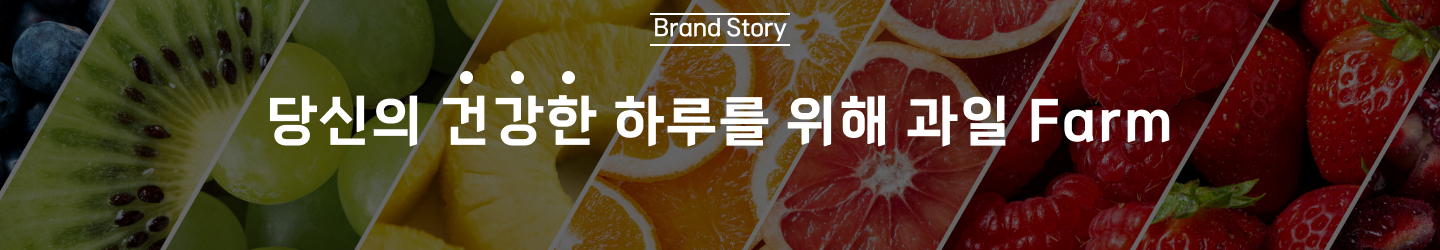
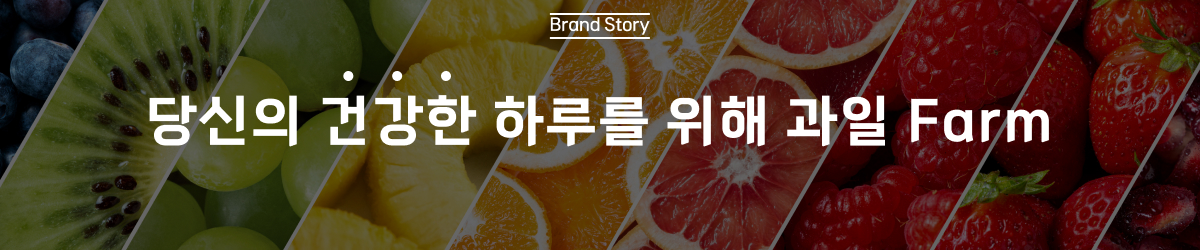
브랜드스토리 배너 이미지 사이즈 조정 / 이너 사이즈 조정 (1200px)

diff --git a/index.html b/index.html
@@ -75,50 +75,49 @@
         </a>
       </div> -->
       <!-- 상단 -->
-      <header >
-       <div class="inner">
-        <div class="header-top">
-          <form action="#" class="header-search">
-            <input
-              type="text"
-              class="search-text"
-              maxlength="100"
-              placeholder="과일은 과일팜."
-            />
-            <input type="button" class="search-bt" />
-          </form>
-          <div class="header-logo">
-            <a href="index.html"><img src="images/logo.jpg" alt="로고" /></a>
+      <header>
+        <div class="inner">
+          <div class="header-top">
+            <form action="#" class="header-search">
+              <input
+                type="text"
+                class="search-text"
+                maxlength="100"
+                placeholder="과일은 과일팜."
+              />
+              <input type="button" class="search-bt" />
+            </form>
+            <div class="header-logo">
+              <a href="index.html"><img src="images/logo.jpg" alt="로고" /></a>
+            </div>
+            <ul class="header-menu-icon">
+              <li class="user"><a href="#"></a></li>
+              <li class="basket"><a href="#"></a></li>
+            </ul>
           </div>
-          <ul class="header-menu-icon">
-            <li class="user"><a href="#"></a></li>
-            <li class="basket"><a href="#"></a></li>
-          </ul>
+          <div class="header-bottom">
+            <ul class="main-menu">
+              <li>
+                <a href="#"><i class="fas fa-bars"></i>ALL</a>
+              </li>
+              <li>
+                <a href="#">도시락 <br />Farm</a>
+              </li>
+              <li>
+                <a href="#">국산<br />Farm</a>
+              </li>
+              <li>
+                <a href="#">제철<br />Farm</a>
+              </li>
+              <li>
+                <a href="#">선물세트<br />Farm</a>
+              </li>
+              <li>
+                <a href="#">정기배송<br />Farm</a>
+              </li>
+            </ul>
+          </div>
         </div>
-        <div class="header-bottom">
-          <ul class="main-menu">
-            <li>
-              <a href="#"><i class="fas fa-bars"></i>ALL</a>
-            </li>
-            <li>
-              <a href="#">도시락 <br />Farm</a>
-            </li>
-            <li>
-              <a href="#">국산<br />Farm</a>
-            </li>
-            <li>
-              <a href="#">제철<br />Farm</a>
-            </li>
-            <li>
-              <a href="#">선물세트<br />Farm</a>
-            </li>
-            <li>
-              <a href="#">정기배송<br />Farm</a>
-            </li>
-          </ul>
-        </div>
-       </div>
-        
       </header>
       <!-- 이미지 슬라이드 -->
       <div class="banner">
@@ -146,19 +145,33 @@
       <section class="today">
         <div class="inner">
           <h1>오늘의 도시락 Pick!</h1>
-        <ul class="today-menu">
-          <li><a href="#"><img src="images/apple.jpg" alt="사과"></a><p>사과</p></li>
-          <li><a href="#"><img src="images/orange.jpg" alt="오렌지"></a><p>오렌지</p></li>
-          <li><a href="#"><img src="images/banana.jpg" alt="바나나"></a><p>바나나</p></li>
-          <li><a href="#"><img src="images/melon.jpg" alt="멜론"></a><p>멜론</p></li>
-          <li><a href="#"><img src="images/mango.jpg" alt="망고"></a><p>망고</p></li>
-        </ul>
-        <div class="today-bt">
-          <div class="today-bt-left">주문하기</div>
-          <div class="today-bt-right">골라서 주문하기</div>
+          <ul class="today-menu">
+            <li>
+              <a href="#"><img src="images/apple.jpg" alt="사과" /></a>
+              <p>사과</p>
+            </li>
+            <li>
+              <a href="#"><img src="images/orange.jpg" alt="오렌지" /></a>
+              <p>오렌지</p>
+            </li>
+            <li>
+              <a href="#"><img src="images/banana.jpg" alt="바나나" /></a>
+              <p>바나나</p>
+            </li>
+            <li>
+              <a href="#"><img src="images/melon.jpg" alt="멜론" /></a>
+              <p>멜론</p>
+            </li>
+            <li>
+              <a href="#"><img src="images/mango.jpg" alt="망고" /></a>
+              <p>망고</p>
+            </li>
+          </ul>
+          <div class="today-bt">
+            <div class="today-bt-left">주문하기</div>
+            <div class="today-bt-right">골라서 주문하기</div>
+          </div>
         </div>
-        </div>
-        
       </section>
       <!-- BEST -->
       <section class="best">

diff --git a/css/main.css b/css/main.css
@@ -17,7 +17,7 @@ a {
 /* 공통 */
 .inner {
   width: 90%;
-  max-width: 1440px;
+  max-width: 1200px;
   margin: 0 auto;
 }
 
@@ -27,7 +27,7 @@ header {
   width: 100%;
 
   height: 345px;
-position: fixed;
+  position: fixed;
   display: block;
   top: 0;
   left: 0;
@@ -81,15 +81,14 @@ position: fixed;
   height: 40px;
 }
 
-.header-bottom{
+.header-bottom {
   width: 100%;
   height: 115px;
   display: block;
   z-index: 99999;
   background-color: #fff;
-  
 }
-.main-menu{
+.main-menu {
   font-family: "Noto Sans KR", sans-serif;
 
   position: relative;
@@ -119,94 +118,92 @@ position: fixed;
   background-color: aqua;
 }
 
-.slide-img1{
-  background: url("../images/longbanner-sul1.png")no-repeat center;
+.slide-img1 {
+  background: url("../images/longbanner-sul1.png") no-repeat center;
   width: 100%;
   height: 100%;
 }
-.slide-img2{
-  background: url("../images/longbanner-dosirak.png")no-repeat center;
+.slide-img2 {
+  background: url("../images/longbanner-dosirak.png") no-repeat center;
   width: 100%;
   height: 100%;
 }
-.slide-img3{
-  background: url("../images/longbanner-manggo.png")no-repeat center;
+.slide-img3 {
+  background: url("../images/longbanner-manggo.png") no-repeat center;
   width: 100%;
   height: 100%;
 }
-.slide-img4{
-  background: url("../images/longbanner-tomato.png")no-repeat center;
+.slide-img4 {
+  background: url("../images/longbanner-tomato.png") no-repeat center;
 
   width: 100%;
   height: 100%;
 }
 /* 오늘의 도시락 */
 
-.today{
+.today {
   width: 100%;
   height: 712px;
   padding: 50px;
 }
-.today h1{
+.today h1 {
   font-family: "TheJamsil5Bold";
   font-size: 70px;
   font-weight: 400;
   margin-top: 50px;
   margin-bottom: 50px;
 }
-.today-menu{
-font-family: "Noto Sans KR", sans-serif;
-width: 100%;
-height: 288px;
-display: flex;
-justify-content: space-around;
-text-align: center;
-line-height: 40px;
-font-size: 20px;
-font-weight: 600;
+.today-menu {
+  font-family: "Noto Sans KR", sans-serif;
+  width: 100%;
+  height: 288px;
+  display: flex;
+  justify-content: space-around;
+  text-align: center;
+  line-height: 40px;
+  font-size: 20px;
+  font-weight: 600;
 }
-.today-menu li img{
-width: 230px;
-height: 230px;
-border: 1px solid #d9d9d9;
-border-radius: 50%;
+.today-menu li img {
+  width: 230px;
+  height: 230px;
+  border: 1px solid #d9d9d9;
+  border-radius: 50%;
 }
-.today-bt{
+.today-bt {
   width: 600px;
   text-align: center;
   display: flex;
   margin: 0 auto;
-  
 }
-.today-bt-left{
+.today-bt-left {
   font-family: "Noto Sans KR", sans-serif;
-    display: block;
-    width: 250px;
-    height: 80px;
-    font-size: 28px;
-    font-weight: bold;
-    background-color: rgb(255, 255, 255);
-    border-radius: 20px;
-    border: 3px solid rgb(68, 68, 68);
-    margin: 50px auto;
-    line-height: 70px;
-    cursor: pointer;
+  display: block;
+  width: 250px;
+  height: 80px;
+  font-size: 28px;
+  font-weight: bold;
+  background-color: rgb(255, 255, 255);
+  border-radius: 20px;
+  border: 3px solid rgb(68, 68, 68);
+  margin: 50px auto;
+  line-height: 70px;
+  cursor: pointer;
 }
-.today-bt-right{
+.today-bt-right {
   font-family: "Noto Sans KR", sans-serif;
-    display: block;
-    width: 250px;
-    height: 80px;
-    font-size: 28px;
-    font-weight: bold;
-    background-color: rgb(255, 255, 255);
-    border-radius: 20px;
-    border: 3px solid rgb(68, 68, 68);
-    margin: 50px auto;
-    line-height: 70px;
-    cursor: pointer;
+  display: block;
+  width: 250px;
+  height: 80px;
+  font-size: 28px;
+  font-weight: bold;
+  background-color: rgb(255, 255, 255);
+  border-radius: 20px;
+  border: 3px solid rgb(68, 68, 68);
+  margin: 50px auto;
+  line-height: 70px;
+  cursor: pointer;
 }
-
 
 /* 지원 */
 /* 베스트 */
